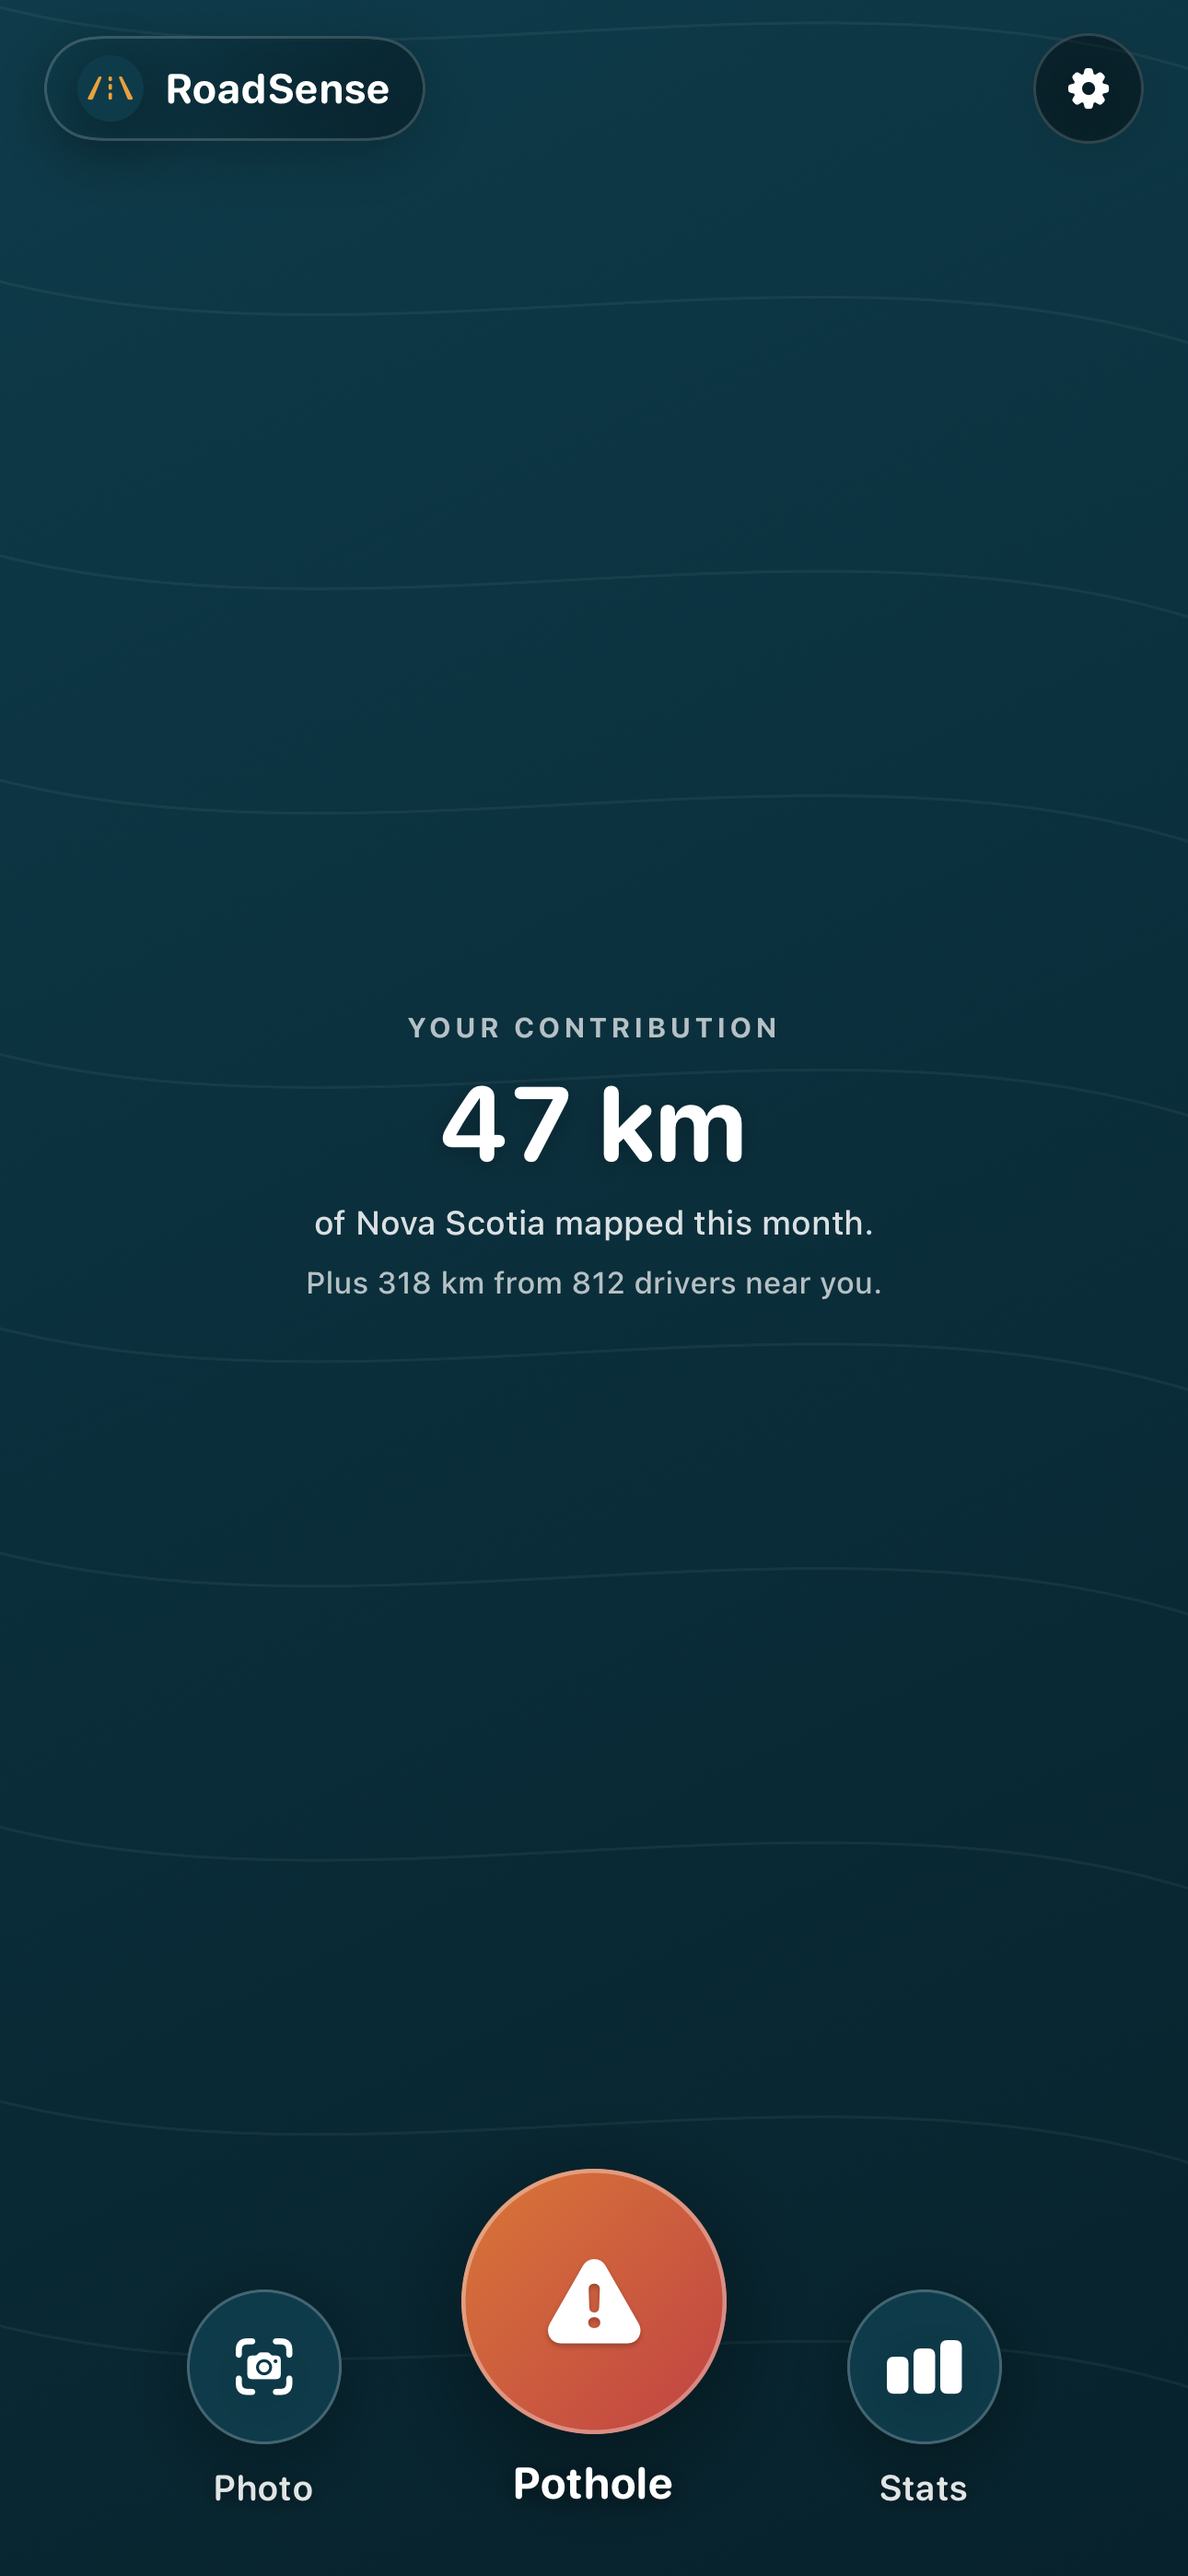
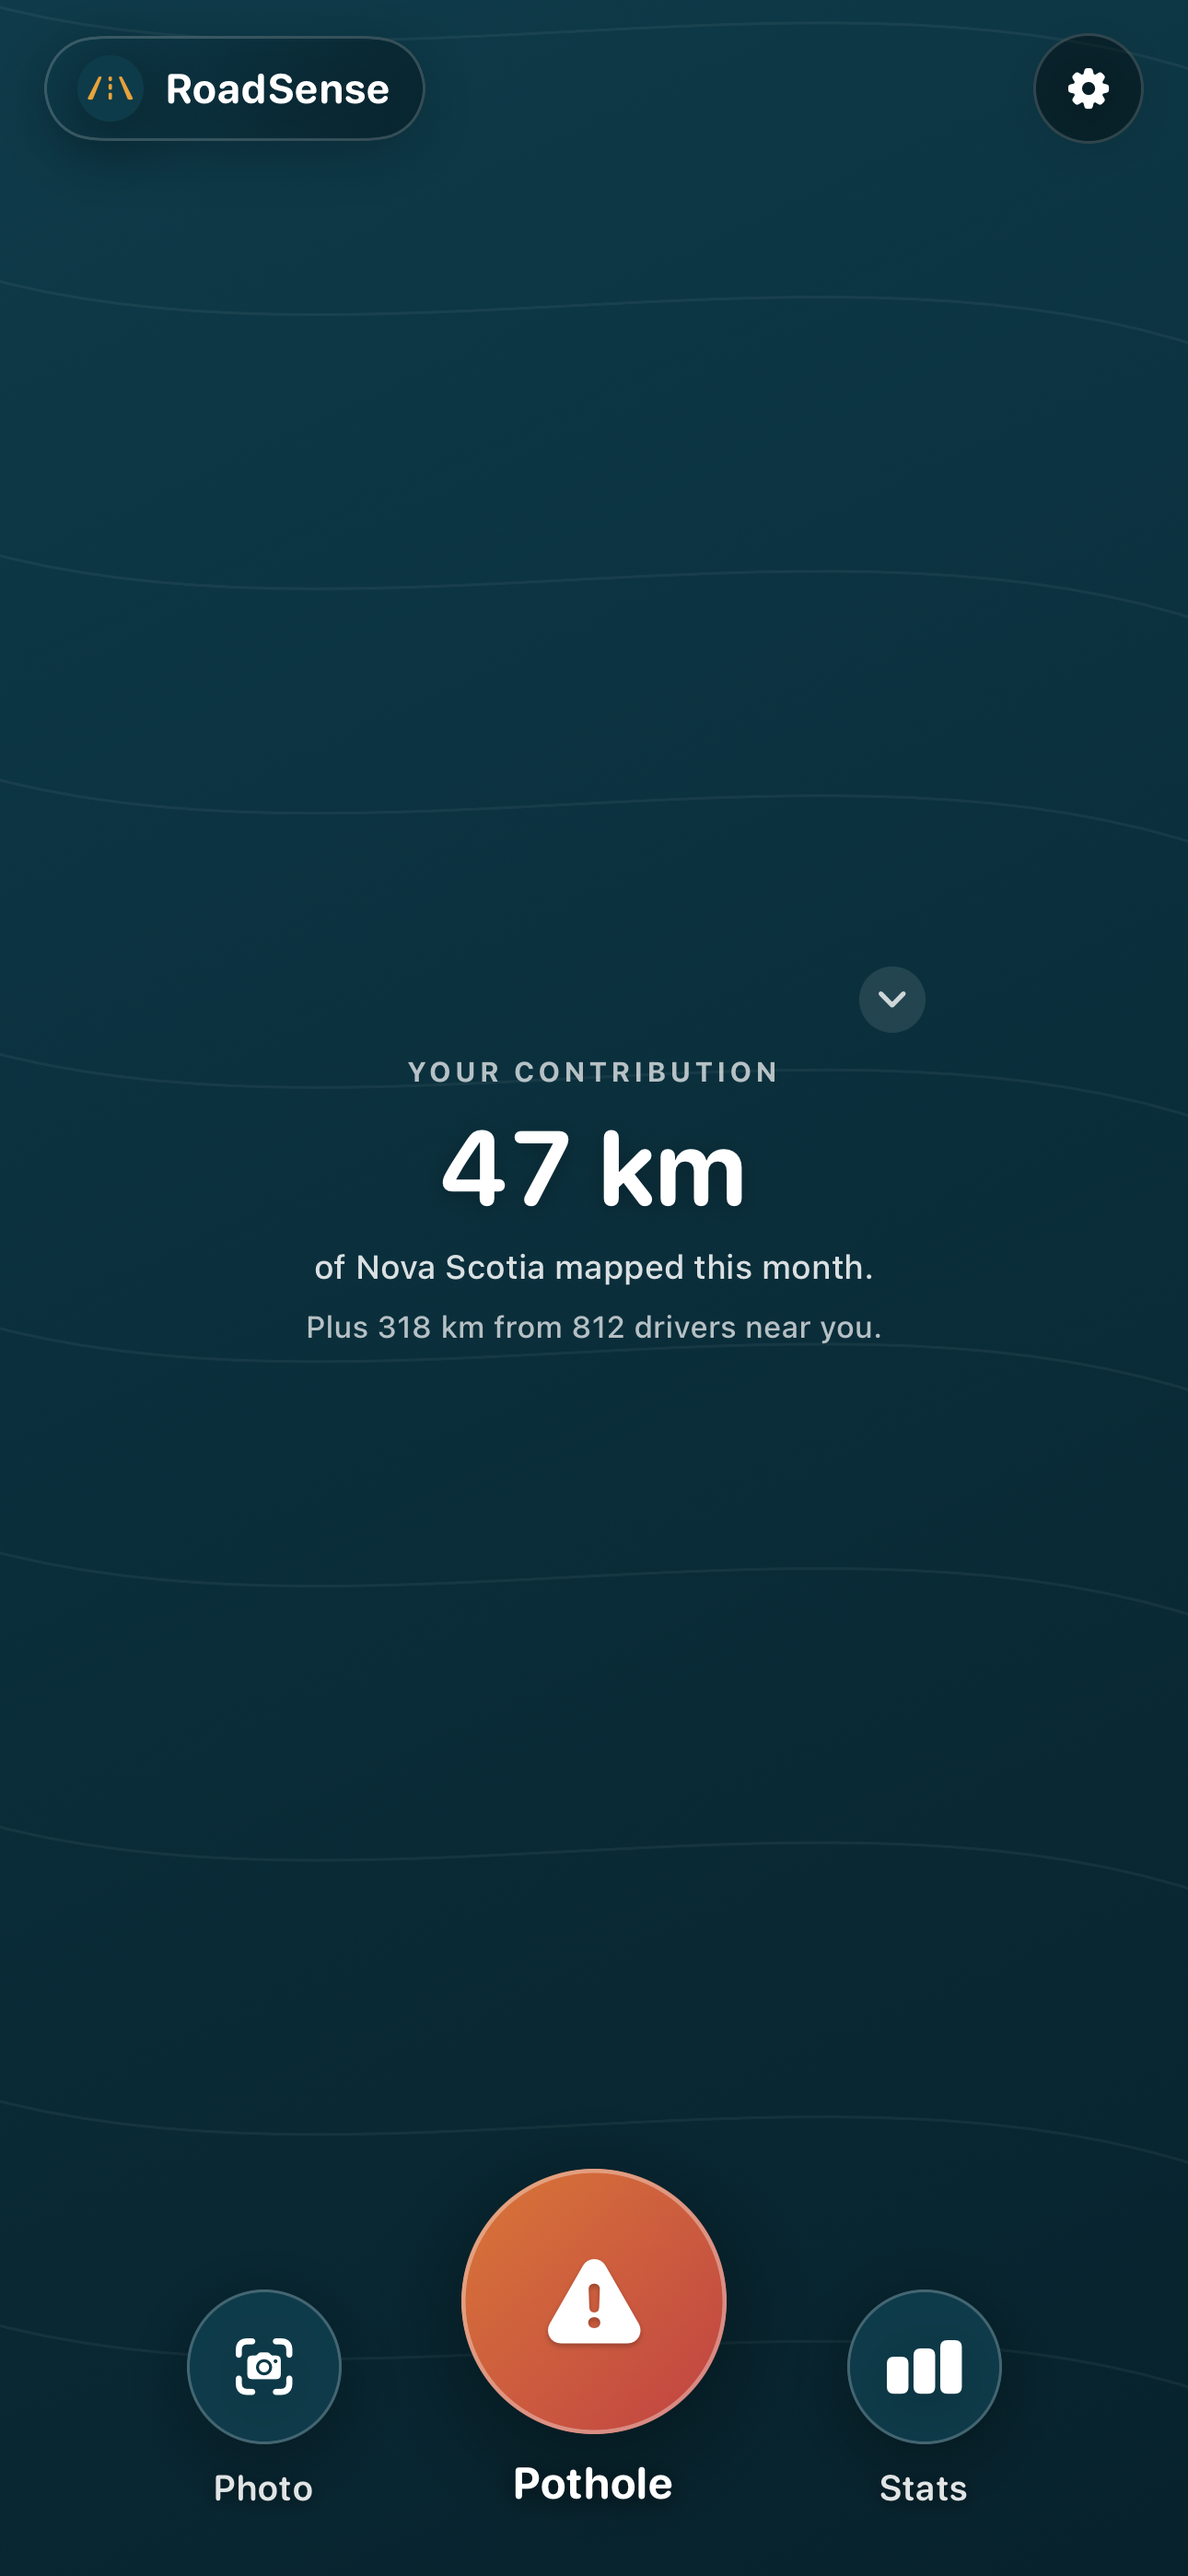
feat(driving): make IdleStatWell dismissible so the map stays useful
The well was always front-and-centre between drives — fine as a status
nudge, but it blocked anyone who wanted to actually look at their road
quality data on the map. Now it's a two-state component:

- Expanded (default on first launch): full well with a chevron-down
  handle in the top-right as the discoverable dismiss affordance, plus
  a transparent tap-to-dismiss layer that catches taps on the map area
  (drag/zoom gestures pass through so map panning still works).
- Collapsed: ContributionChip — compact pill with the km figure that
  sits below the topBar/attention pill, never gone but never in the
  way. Tap to expand back.

State persists via @AppStorage("driving.idleWellExpanded") so once a
user dismisses the well, we don't keep reopening it on every launch.

ContributionChip is a new component in DrivingScreenComponents.swift,
parallel in style to BrandChip — ultraThinMaterial + Palette.deep
scrim, capsule shape, accessibility label includes the km value.

The transparent dismiss layer sits below the topBar/FABs in the ZStack
so those still consume their own taps; only "tap on map area" triggers
collapse. Animations use the existing DesignTokens.Motion.standard.

Mockup pipeline updated: MapScreenRedesignPreview now passes a no-op
onDismiss closure so the rendered mockup matches what users see.

71 unit / 85 SPM tests pass. No regressions.

Changed region(s): [[0.2481, 0.3734, 0.7442, 0.529]]

diff --git a/ios/RoadSenseNS/Features/Map/DrivingScreenComponents.swift b/ios/RoadSenseNS/Features/Map/DrivingScreenComponents.swift
@@ -329,13 +329,40 @@ struct SecondaryFAB: View {
 
 /// Pro-social headline shown on the driving screen between drives. Replaces
 /// the previous "View stats" primary action — see §7.D5.
+///
+/// Dismissable: a chevron-down handle in the top-right collapses the well to
+/// `ContributionChip` so the user can interact with the map underneath. The
+/// dismissal also fires on a tap-to-dismiss overlay over the map area, but
+/// the explicit handle is the discoverable affordance.
 struct IdleStatWell: View {
     let kmThisMonth: Double
     let communityKmThisWeek: Double
     let communityDriversThisWeek: Int
+    var onDismiss: (() -> Void)? = nil
 
     var body: some View {
         VStack(alignment: .center, spacing: 6) {
+            if onDismiss != nil {
+                HStack {
+                    Spacer(minLength: 0)
+                    Button(action: { onDismiss?() }) {
+                        Image(systemName: "chevron.down")
+                            .font(.system(size: 11, weight: .bold))
+                            .foregroundStyle(.white.opacity(0.78))
+                            .frame(width: 24, height: 24)
+                            .background(
+                                Circle().fill(.white.opacity(0.10))
+                            )
+                            .contentShape(Circle().inset(by: -8))
+                    }
+                    .buttonStyle(.plain)
+                    .accessibilityLabel("Hide contribution")
+                    .accessibilityHint("Hides the contribution headline so you can explore the map. Tap the chip to bring it back.")
+                    .accessibilityIdentifier("driving.idle-well.dismiss")
+                }
+                .padding(.bottom, 2)
+            }
+
             Text(BrandVoice.Stats.yourContributionEyebrow)
                 .font(.system(size: 10, weight: .bold))
                 .tracking(1.3)
@@ -366,7 +393,56 @@ struct IdleStatWell: View {
         .frame(maxWidth: 240)
         .padding(.horizontal, DesignTokens.Space.lg)
         .padding(.vertical, DesignTokens.Space.md)
-        .accessibilityElement(children: .combine)
+        .accessibilityElement(children: .contain)
+    }
+
+    private var formattedKm: String {
+        let kmString = kmThisMonth.formatted(.number.precision(.fractionLength(kmThisMonth < 10 ? 1 : 0)))
+        return "\(kmString) km"
+    }
+}
+
+/// Compact pill that replaces `IdleStatWell` once the user dismisses it. Keeps
+/// the contribution signal alive without obscuring the map. Tap to bring the
+/// full well back.
+struct ContributionChip: View {
+    let kmThisMonth: Double
+    let onExpand: () -> Void
+
+    var body: some View {
+        Button(action: onExpand) {
+            HStack(spacing: DesignTokens.Space.xs) {
+                Image(systemName: "chart.bar.xaxis")
+                    .font(.system(size: 11, weight: .bold))
+                    .foregroundStyle(.white.opacity(0.78))
+                Text(formattedKm)
+                    .font(.system(size: 13, weight: .bold, design: .rounded).monospacedDigit())
+                    .foregroundStyle(.white)
+                Image(systemName: "chevron.up")
+                    .font(.system(size: 9, weight: .bold))
+                    .foregroundStyle(.white.opacity(0.6))
+                    .padding(.leading, 1)
+            }
+            .padding(.horizontal, DesignTokens.Space.sm)
+            .padding(.vertical, 7)
+            .background(
+                Capsule()
+                    .fill(.ultraThinMaterial)
+                    .overlay(
+                        Capsule().fill(DesignTokens.Palette.deep.opacity(0.55))
+                    )
+            )
+            .overlay(
+                Capsule().strokeBorder(.white.opacity(0.14), lineWidth: 1)
+            )
+            .shadow(color: .black.opacity(0.18), radius: 8, y: 3)
+            .contentShape(Capsule().inset(by: -8))
+        }
+        .buttonStyle(.plain)
+        .accessibilityElement(children: .ignore)
+        .accessibilityLabel("Your contribution: \(formattedKm) this month")
+        .accessibilityHint("Shows the full contribution headline.")
+        .accessibilityIdentifier("driving.idle-well.expand")
     }
 
     private var formattedKm: String {

diff --git a/ios/RoadSenseNS/Features/Map/MapScreenRedesign.swift b/ios/RoadSenseNS/Features/Map/MapScreenRedesign.swift
@@ -40,6 +40,11 @@ struct MapScreenRedesign: View {
     @State private var followUpPrompt: RedesignFollowUpPrompt?
     @State private var deferredRedesignFollowUpPrompt: RedesignFollowUpPrompt?
 
+    /// Whether the idle "Your contribution" well is shown full-size or
+    /// collapsed to a chip. Persisted so the user's choice survives launches —
+    /// once they hide the well to explore the map, we don't keep reopening it.
+    @AppStorage("driving.idleWellExpanded") private var idleWellExpanded: Bool = true
+
     var body: some View {
         ZStack(alignment: .top) {
             RoadQualityMapView(
@@ -62,6 +67,23 @@ struct MapScreenRedesign: View {
                     segmentLoadError = nil
                 }
             )
+
+            // Tap-to-dismiss layer — when the idle well is expanded, a tap
+            // anywhere on the map area collapses it to a chip so the user can
+            // interact with the map. Map drag/zoom gestures pass through (we
+            // only consume tap), and FABs / topBar / pills sit above this in
+            // the ZStack and consume their own taps first.
+            if showsIdleStatWell && idleWellExpanded {
+                Color.clear
+                    .contentShape(Rectangle())
+                    .onTapGesture {
+                        withAnimation(DesignTokens.Motion.standard) {
+                            idleWellExpanded = false
+                        }
+                    }
+                    .ignoresSafeArea()
+                    .accessibilityHidden(true)
+            }
 
             // Bottom gradient scrim — keeps the FAB cluster + labels legible
             // over bright Mapbox tiles. Fades to fully transparent ~40% up
@@ -94,6 +116,9 @@ struct MapScreenRedesign: View {
                     .padding(.top, DesignTokens.Space.xs)
                     .transition(.move(edge: .top).combined(with: .opacity))
                 }
+
+                collapsedContributionChip
+                    .padding(.top, DesignTokens.Space.sm)
 
                 Spacer(minLength: 0)
 
@@ -218,15 +243,39 @@ struct MapScreenRedesign: View {
                 .background(centerScrimBackground)
                 .transition(.opacity)
                 .accessibilitySortPriority(3)
-        } else if showsIdleStatWell {
+        } else if showsIdleStatWell, idleWellExpanded {
             IdleStatWell(
                 kmThisMonth: model.userStatsSummary.totalKmRecorded,
                 communityKmThisWeek: 0, // §11 stats_public view will populate this
-                communityDriversThisWeek: 0
+                communityDriversThisWeek: 0,
+                onDismiss: {
+                    withAnimation(DesignTokens.Motion.standard) {
+                        idleWellExpanded = false
+                    }
+                }
             )
             .padding(DesignTokens.Space.lg)
             .background(centerScrimBackground)
-            .transition(.opacity)
+            .transition(.scale(scale: 0.92).combined(with: .opacity))
+            .accessibilitySortPriority(3)
+        }
+    }
+
+    /// Compact pill rendered near the top of the screen when the user has
+    /// dismissed `IdleStatWell` so the contribution signal is never gone — just
+    /// out of the way.
+    @ViewBuilder
+    private var collapsedContributionChip: some View {
+        if showsIdleStatWell, !idleWellExpanded {
+            ContributionChip(
+                kmThisMonth: model.userStatsSummary.totalKmRecorded,
+                onExpand: {
+                    withAnimation(DesignTokens.Motion.standard) {
+                        idleWellExpanded = true
+                    }
+                }
+            )
+            .transition(.move(edge: .top).combined(with: .opacity))
             .accessibilitySortPriority(3)
         }
     }

diff --git a/ios/RoadSenseNS/Features/Map/MapScreenRedesignPreview.swift b/ios/RoadSenseNS/Features/Map/MapScreenRedesignPreview.swift
@@ -221,7 +221,8 @@ struct StaticPreview: View {
             IdleStatWell(
                 kmThisMonth: 47,
                 communityKmThisWeek: 318,
-                communityDriversThisWeek: 812
+                communityDriversThisWeek: 812,
+                onDismiss: {}
             )
         default:
             Color.clear
